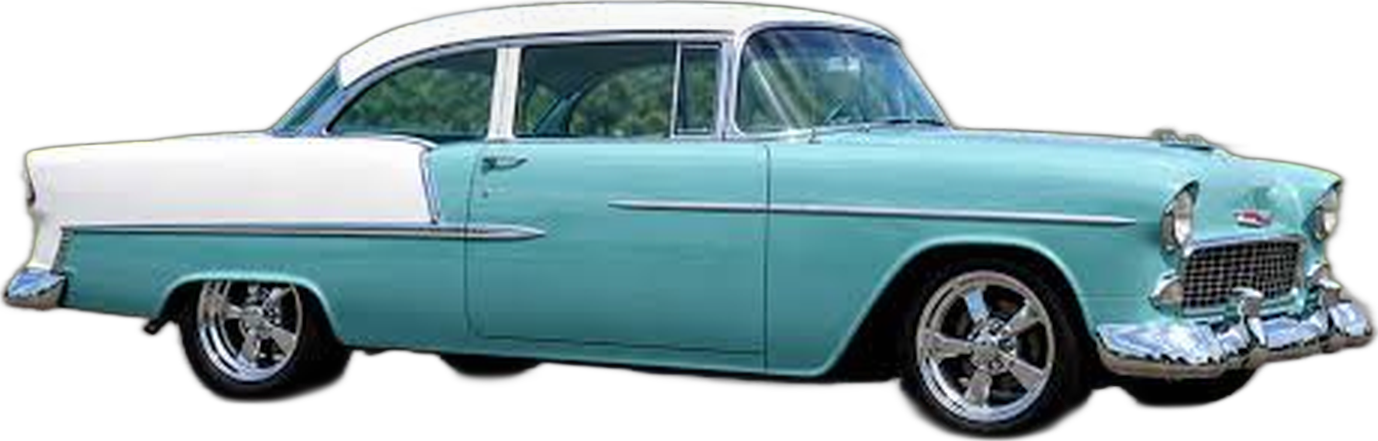
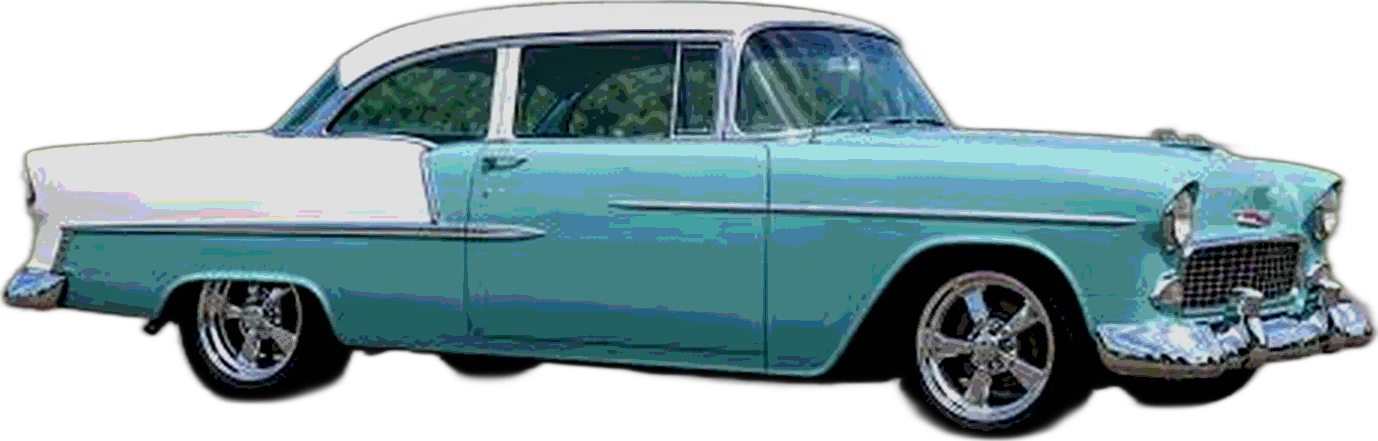
Added category images

Changed region(s): [[0.0, 0.0, 0.9985, 0.9728]]

diff --git a/lib/vin.ts b/lib/vin.ts
@@ -1,0 +1,98 @@
+// Reads a 1955–57 Chevrolet serial number (the "VIN" plate on the driver's door
+// hinge pillar) or the style number from the cowl tag. Safe in the browser.
+//
+// Serial number, e.g. VC57B123456:
+//   V      V8 from the factory (no V = six-cylinder)
+//   C      series: A = 150, B = 210 (incl. Delray), C = Bel Air (incl. Nomad), D = sedan delivery
+//   57     model year
+//   B      assembly plant
+//   123456 production number (each plant counted separately)
+// It doesn't say the body style; the cowl tag does, e.g. "STYLE 57-1037D":
+//   1037 = 210/Bel Air 2-door hardtop ("D" = Bel Air, "F" = wagon).
+// Sources: Classic Industries' 1955–57 Chevy VIN decoder and Rick's Tri-Five cowl tag guide.
+
+import type { BodyId, Year } from './fitment';
+
+const SERIES: Record<string, { name: string; bodies: BodyId[] }> = {
+  A: { name: '150', bodies: ['2-door-sedan', '4-door-sedan', 'wagon'] },
+  B: { name: '210', bodies: ['2-door-sedan', '4-door-sedan', '2-door-hardtop', '4-door-hardtop', 'wagon'] },
+  C: { name: 'Bel Air', bodies: ['2-door-sedan', '4-door-sedan', '2-door-hardtop', '4-door-hardtop', 'convertible', 'wagon', 'nomad'] },
+  D: { name: 'Sedan Delivery', bodies: ['sedan-delivery'] },
+};
+
+const PLANTS: Record<string, string> = {
+  A: 'Atlanta, Georgia',
+  B: 'Baltimore, Maryland',
+  F: 'Flint, Michigan',
+  J: 'Janesville, Wisconsin',
+  K: 'Kansas City, Missouri',
+  L: 'Los Angeles, California',
+  N: 'Norwood, Ohio',
+  O: 'Oakland, California',
+  S: 'St. Louis, Missouri',
+  T: 'Tarrytown, New York',
+};
+
+// Cowl tag style numbers (Fisher Body).
+const STYLES: Record<string, { body: BodyId; name: string }> = {
+  '1211': { body: '2-door-sedan', name: '150 2-door sedan' },
+  '1219': { body: '4-door-sedan', name: '150 4-door sedan' },
+  '1263': { body: 'wagon', name: '150 2-door wagon (Handyman)' },
+  '1271': { body: 'sedan-delivery', name: 'Sedan delivery' },
+  '1011': { body: '2-door-sedan', name: '210 or Bel Air 2-door sedan' },
+  '1019': { body: '4-door-sedan', name: '210 or Bel Air 4-door sedan' },
+  '1037': { body: '2-door-hardtop', name: '210 or Bel Air 2-door hardtop' },
+  '1039': { body: '4-door-hardtop', name: '210 or Bel Air 4-door hardtop' },
+  '1062': { body: 'wagon', name: '210 or Bel Air 4-door wagon' },
+  '1063': { body: 'wagon', name: '210 2-door wagon (Handyman)' },
+  '1064': { body: 'nomad', name: 'Bel Air Nomad' },
+  '1067': { body: 'convertible', name: 'Bel Air convertible' },
+};
+
+export type VinResult =
+  | { kind: 'serial'; year: Year; v8: boolean; series: string; plant: string | null; bodies: BodyId[]; summary: string }
+  | { kind: 'style'; year: Year | null; body: BodyId; summary: string }
+  | { kind: 'error'; message: string };
+
+export function decodeVin(raw: string): VinResult {
+  const s = raw.toUpperCase().replace(/^(STYLE|ST|VIN)\s*/, '').replace(/[\s.\-–]/g, '');
+  if (!s) return { kind: 'error', message: 'Type the number from your car first.' };
+
+  // Serial number: V? + series + year + plant + production number
+  const v = s.match(/^(V)?([ABCD])(5[567])([ABFJKLNOST])([0-9O]{5,6})$/);
+  if (v) {
+    const [, eight, ser, yy, plant] = v;
+    const year = (1900 + Number(yy)) as Year;
+    const series = SERIES[ser];
+    let bodies = series.bodies;
+    if (year === 1955) bodies = bodies.filter((b) => b !== '4-door-hardtop'); // the 4-door hardtop arrived in 1956
+    const name = ser === 'D' ? `’${yy} Chevrolet sedan delivery` : `’${yy} Chevrolet ${series.name}`;
+    return {
+      kind: 'serial',
+      year,
+      v8: !!eight,
+      series: series.name,
+      plant: PLANTS[plant] ?? null,
+      bodies,
+      summary: `${name}, ${eight ? 'V8' : 'six-cylinder'}${PLANTS[plant] ? `, built in ${PLANTS[plant]}` : ''}.`,
+    };
+  }
+
+  // Cowl tag style number: optional year, 4 digits, optional letters (57-1037D)
+  const t = s.match(/^(?:(5[567]))?(1[02]\d\d)([A-Z]{0,2})$/);
+  if (t && STYLES[t[2]]) {
+    const st = STYLES[t[2]];
+    const year = t[1] ? ((1900 + Number(t[1])) as Year) : null;
+    const belAir = t[3].includes('D') && st.name.includes('Bel Air') ? st.name.replace('210 or Bel Air', 'Bel Air') : st.name;
+    return { kind: 'style', year, body: st.body, summary: `${year ? `’${String(year).slice(-2)} ` : ''}${belAir}.` };
+  }
+
+  // Looks like a modern 17-character VIN: not a Tri-Five plate
+  if (/^[A-HJ-NPR-Z0-9]{17}$/.test(s)) {
+    return { kind: 'error', message: 'That looks like a modern 17-character VIN. Tri-Five Chevys have a shorter number, like VC57B123456.' };
+  }
+  return {
+    kind: 'error',
+    message: 'We couldn’t read that number. A Tri-Five serial number looks like VC57B123456 (on the driver’s door hinge post). A cowl tag style number looks like 57-1037D.',
+  };
+}

diff --git a/components/VinLookup.tsx b/components/VinLookup.tsx
@@ -1,0 +1,77 @@
+'use client';
+import { useState } from 'react';
+import Link from 'next/link';
+import { decodeVin, type VinResult } from '@/lib/vin';
+import { BODIES } from '@/lib/fitment';
+
+const bodyName = (id: string) => BODIES.find((b) => b.id === id)?.name ?? id;
+const yy = (y: number) => `’${String(y).slice(-2)}`;
+
+// "Not sure? Look it up": reads a Tri-Five serial number or cowl tag style number
+// and sends the customer to the parts finder with their car filled in.
+export default function VinLookup() {
+  const [value, setValue] = useState('');
+  const [result, setResult] = useState<VinResult | null>(null);
+
+  return (
+    <section className="space-y-4 rounded-xl border-[3px] border-brand p-5 max-w-xl" aria-labelledby="vin-h">
+      <h2 id="vin-h" className="text-xl">Not sure? Look it up from your car’s numbers</h2>
+      <form
+        className="space-y-3"
+        onSubmit={(e) => {
+          e.preventDefault();
+          setResult(decodeVin(value));
+        }}
+      >
+        <label htmlFor="vin" className="label">Serial number or cowl tag style number</label>
+        <div className="flex flex-col sm:flex-row gap-3">
+          <input id="vin" className="field uppercase" placeholder="VC57B123456 or 57-1037D" autoComplete="off" autoCapitalize="characters" spellCheck={false} value={value} onChange={(e) => setValue(e.target.value)} />
+          <button type="submit" className="btn-main sm:!w-auto shrink-0">Look it up</button>
+        </div>
+      </form>
+      <ul className="text-base text-onyx/80 list-disc pl-6 space-y-1">
+        <li><strong>Serial number:</strong> on the metal plate on the driver’s door hinge post. Tells us the year and model.</li>
+        <li><strong>Cowl tag:</strong> the small plate on the firewall under the hood. The number after STYLE tells us the body style.</li>
+      </ul>
+
+      {result?.kind === 'error' && <p role="alert" className="rounded-lg bg-matador/10 border-[3px] border-matador p-4 text-lg">{result.message}</p>}
+
+      {result?.kind === 'serial' && (
+        <div role="status" className="space-y-3 rounded-lg bg-brand-light p-4">
+          <p className="text-xl font-bold">{result.summary}</p>
+          {result.bodies.length === 1 ? (
+            <Link className="btn-main" href={`/planner?year=${result.year}&body=${result.bodies[0]}`}>Show parts for my {yy(result.year)} {bodyName(result.bodies[0])}</Link>
+          ) : (
+            <>
+              <p className="text-lg">The serial number doesn’t say the body style. Which one is it?</p>
+              <ul className="grid gap-2 sm:grid-cols-2">
+                {result.bodies.map((b) => (
+                  <li key={b}><Link className="choice !min-h-0 !py-3" href={`/planner?year=${result.year}&body=${b}`}><span className="choice-title !text-lg">{bodyName(b)}</span></Link></li>
+                ))}
+              </ul>
+              <p className="text-base">Or type the cowl tag style number above and we’ll know for sure.</p>
+            </>
+          )}
+        </div>
+      )}
+
+      {result?.kind === 'style' && (
+        <div role="status" className="space-y-3 rounded-lg bg-brand-light p-4">
+          <p className="text-xl font-bold">{result.summary}</p>
+          {result.year ? (
+            <Link className="btn-main" href={`/planner?year=${result.year}&body=${result.body}`}>Show parts for my {yy(result.year)} {bodyName(result.body)}</Link>
+          ) : (
+            <>
+              <p className="text-lg">Which year? (It’s the two digits before the style number on the tag, like 57-.)</p>
+              <ul className="flex flex-wrap gap-2">
+                {[1955, 1956, 1957].map((y) => (
+                  <li key={y}><Link className="btn-plain !w-auto" href={`/planner?year=${y}&body=${result.body}`}>{yy(y)}</Link></li>
+                ))}
+              </ul>
+            </>
+          )}
+        </div>
+      )}
+    </section>
+  );
+}

diff --git a/app/planner/page.tsx b/app/planner/page.tsx
@@ -5,6 +5,7 @@ import { BODIES, YEARS } from '@/lib/fitment';
 import { AREAS } from '@/lib/areas';
 import { findParts } from '@/lib/catalog';
 import ChoiceTile from '@/components/ChoiceTile';
+import VinLookup from '@/components/VinLookup';
 import ART from '@/lib/planner-art.json';
 
 // Pictures from public/planner/ (see art/planner/README.md). A step switches to
@@ -41,6 +42,7 @@ export default async function Planner({ searchParams }: { searchParams: SP }) {
             ))}
           </ul>
           <p className="max-w-lg"><Link className="choice" href={qs({ year: 'any' })}><span className="choice-title">I’m not sure</span><span className="choice-note">Show parts for all three years</span></Link></p>
+          <VinLookup />
         </Step>
       );
     }
@@ -52,6 +54,7 @@ export default async function Planner({ searchParams }: { searchParams: SP }) {
           ))}
           <li><Link className="choice" href={qs({ year: 'any' })}><span className="choice-title">I’m not sure</span><span className="choice-note">Show parts for all three years</span></Link></li>
         </ul>
+        <VinLookup />
       </Step>
     );
   }
@@ -72,6 +75,7 @@ export default async function Planner({ searchParams }: { searchParams: SP }) {
             ))}
           </ul>
           <p className="max-w-lg"><Link className="choice" href={qs({ year, body: 'any' })}><span className="choice-title">I’m not sure</span><span className="choice-note">Show parts for every body style</span></Link></p>
+          <VinLookup />
           <p><Link href="/planner">Change the year</Link></p>
         </Step>
       );
@@ -89,6 +93,7 @@ export default async function Planner({ searchParams }: { searchParams: SP }) {
           ))}
           <li><Link className="choice" href={qs({ year, body: 'any' })}><span className="choice-title">I’m not sure</span><span className="choice-note">Show parts for every body style</span></Link></li>
         </ul>
+        <VinLookup />
         <p><Link href="/planner">Change the year</Link></p>
       </Step>
     );
